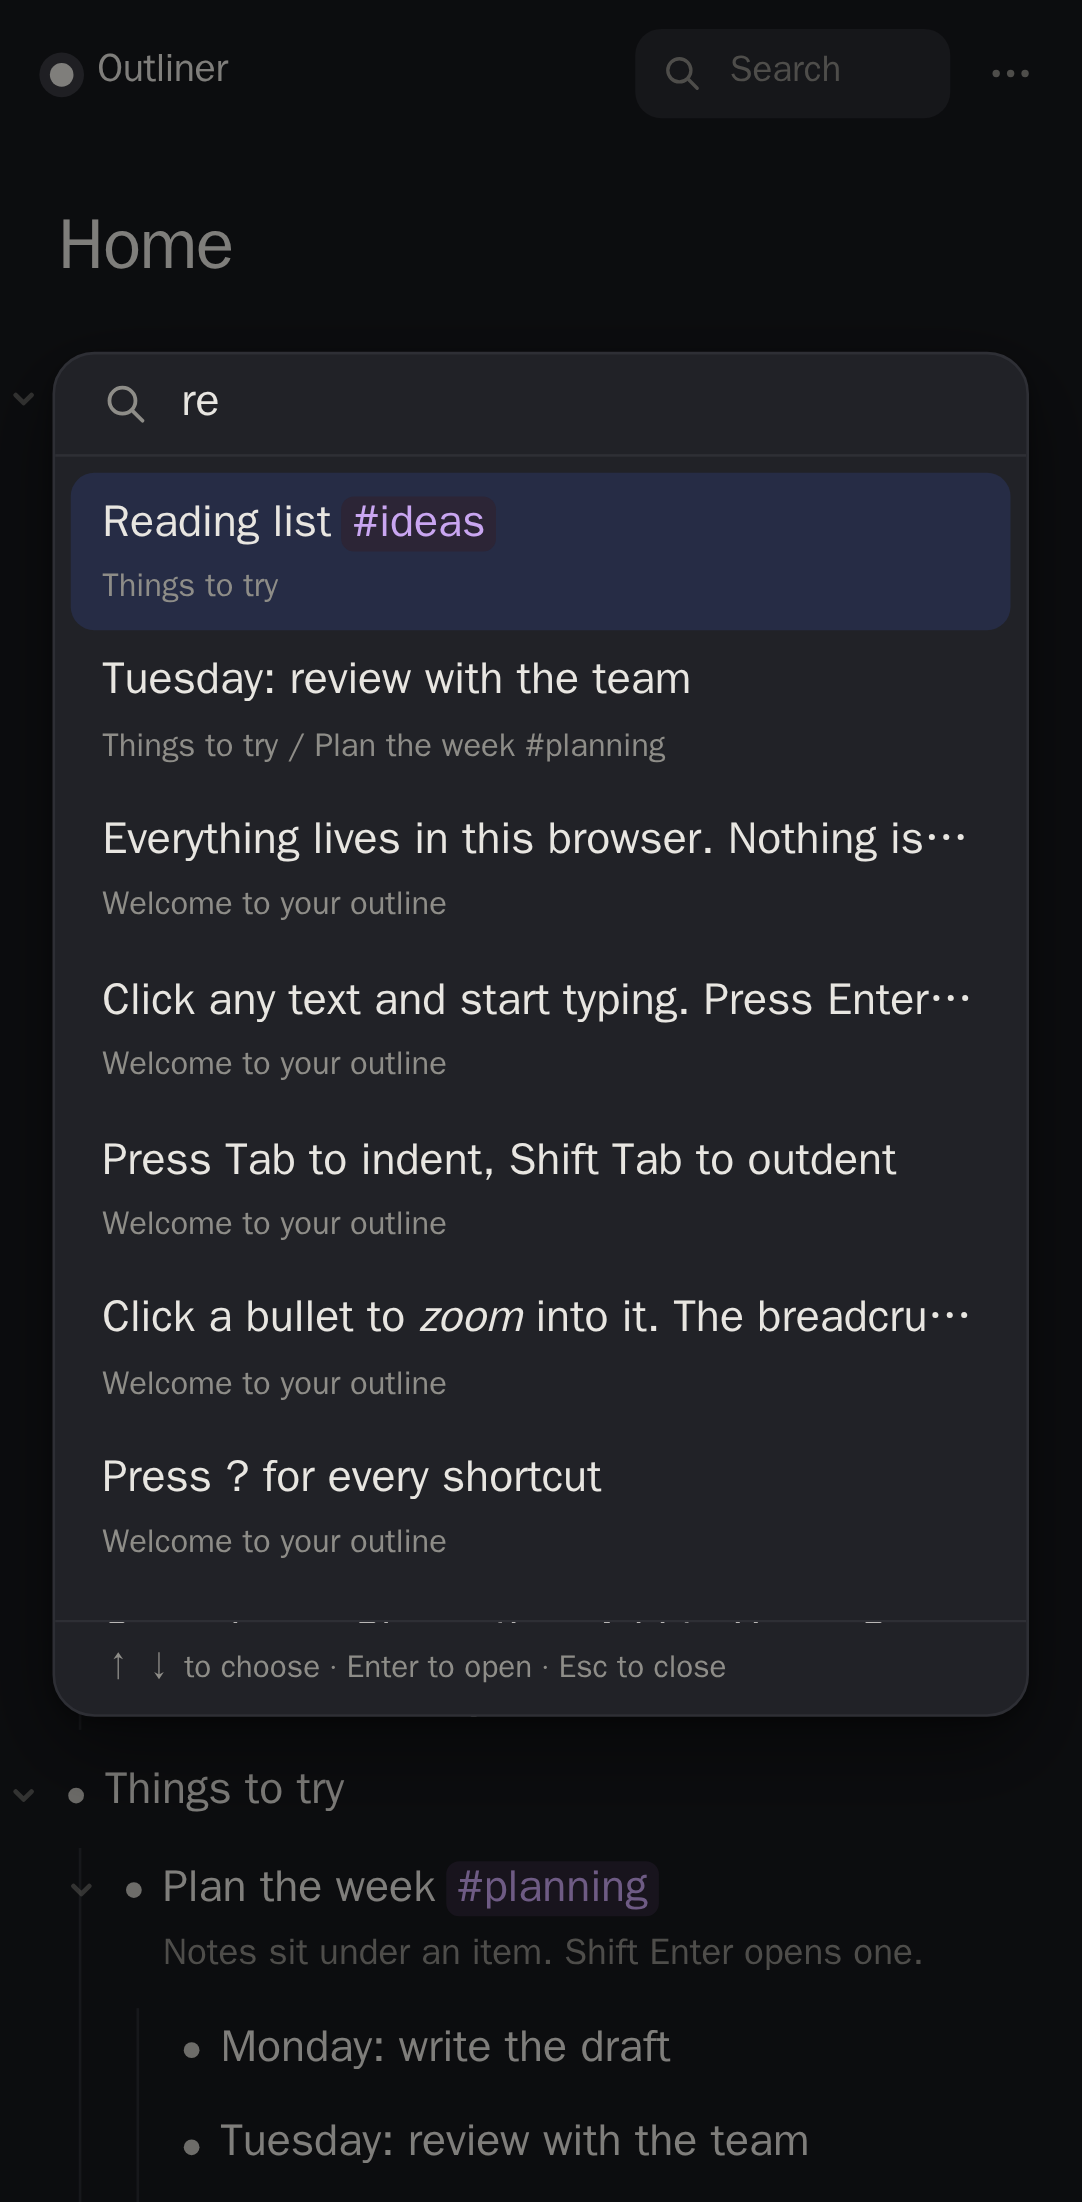
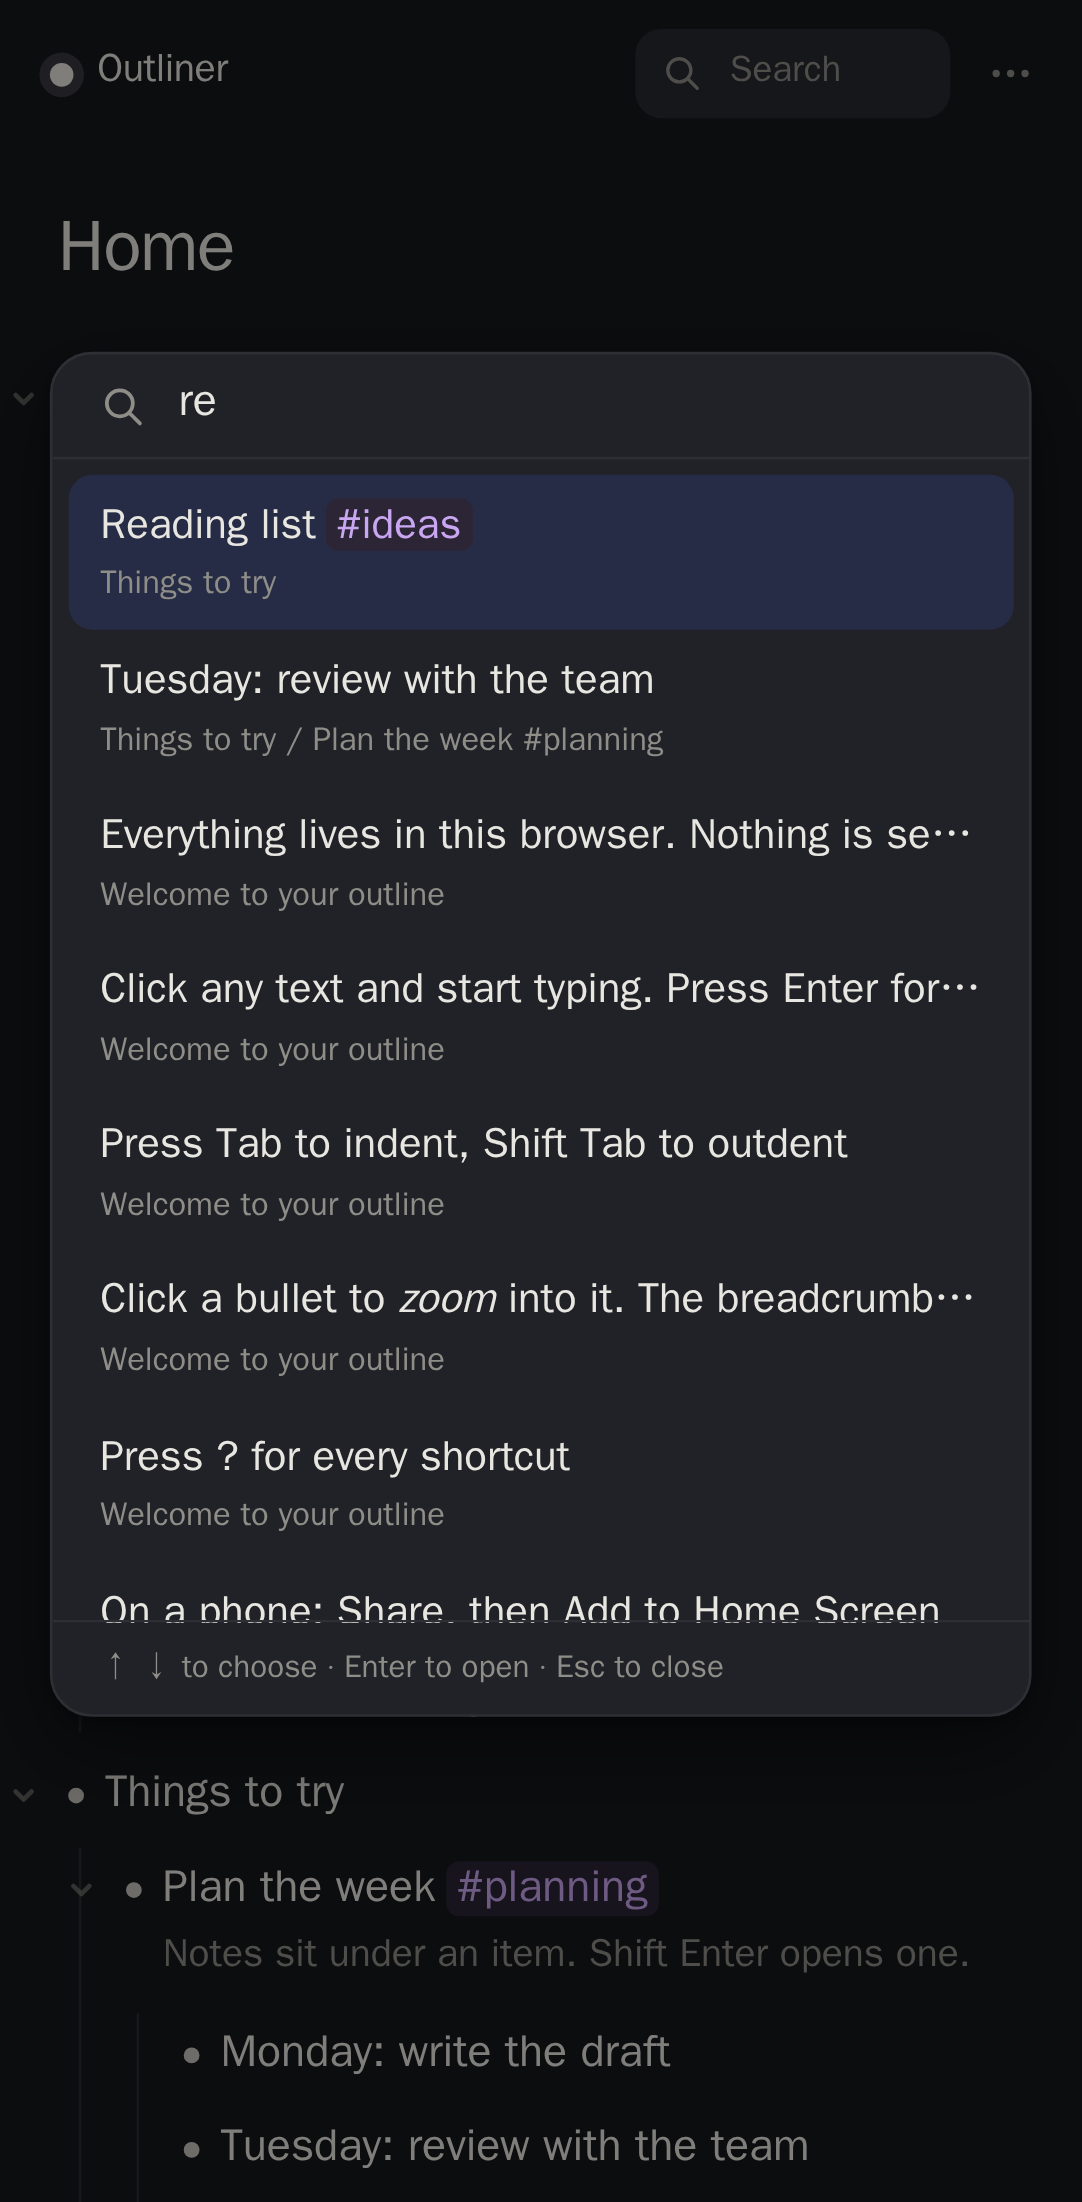
Add a text size setting next to the theme

diff --git a/src/app.ts b/src/app.ts
@@ -35,7 +35,7 @@ import {
   toggleCompleted,
 } from "./model";
 import { Caret, History } from "./store";
-import { Prefs, Theme, discardPendingSave, flushSave, loadDoc, loadPrefs, onDocChangedInAnotherTab, onSaveFailed, savePrefs, saveDocSoon } from "./storage";
+import { Prefs, discardPendingSave, flushSave, loadDoc, loadPrefs, onDocChangedInAnotherTab, onSaveFailed, savePrefs, saveDocSoon } from "./storage";
 import { Candidate, SearchResult, findItems, pathOf, search } from "./search";
 import { openPalette } from "./palette";
 import { escape, plainText, renderInline } from "./inline";
@@ -57,7 +57,6 @@ const ui = {
   search: $<HTMLInputElement>("search"),
   searchSummary: $("search-summary"),
   menu: $("menu"),
-  themeChoice: $("theme-choice"),
   completedSwitch: $("completed-switch"),
   importFile: $<HTMLInputElement>("import-file"),
   toolbar: $("toolbar"),
@@ -83,7 +82,7 @@ const filter = (): ViewFilter => ({ showCompleted: state.prefs.showCompleted });
 
 export function start(): void {
   state.zoom = zoomFromHash();
-  applyTheme();
+  applyAppearance();
   bindEditorEvents();
   bindChrome();
   bindGlobalKeys();
@@ -1092,11 +1091,12 @@ function bindChrome(): void {
     runMenuAction(button.dataset.action!);
   });
 
-  ui.themeChoice.addEventListener("click", (event) => {
-    const button = (event.target as HTMLElement).closest<HTMLElement>("[data-theme]");
+  ui.menu.addEventListener("click", (event) => {
+    const button = (event.target as HTMLElement).closest<HTMLElement>("[data-pref] [data-value]");
     if (!button) return;
-    updatePrefs({ theme: button.dataset.theme as Theme });
-    applyTheme();
+    const pref = button.closest<HTMLElement>("[data-pref]")!.dataset.pref as "theme" | "textSize";
+    updatePrefs({ [pref]: button.dataset.value });
+    applyAppearance();
   });
 
   ui.importFile.addEventListener("change", async () => {
@@ -1129,7 +1129,7 @@ function bindChrome(): void {
   $("build-info").textContent = `Stored only in this browser · build ${__BUILD_COMMIT__}`;
   document.querySelector(".menu-kbd")!.textContent = isMac ? "⌘K" : "Ctrl K";
 
-  window.matchMedia("(prefers-color-scheme: dark)").addEventListener("change", applyTheme);
+  window.matchMedia("(prefers-color-scheme: dark)").addEventListener("change", applyAppearance);
 }
 
 function runMenuAction(action: string): void {
@@ -1275,18 +1275,24 @@ function updatePrefs(change: Partial<Prefs>): void {
 }
 
 function renderMenuState(): void {
-  for (const button of ui.themeChoice.querySelectorAll<HTMLElement>("[data-theme]")) {
-    button.setAttribute("aria-checked", String(button.dataset.theme === state.prefs.theme));
+  for (const group of ui.menu.querySelectorAll<HTMLElement>("[data-pref]")) {
+    const current = state.prefs[group.dataset.pref as "theme" | "textSize"];
+    for (const button of group.querySelectorAll<HTMLElement>("[data-value]")) {
+      button.setAttribute("aria-checked", String(button.dataset.value === current));
+    }
   }
   ui.completedSwitch.classList.toggle("on", state.prefs.showCompleted);
 }
 
-function applyTheme(): void {
-  const theme = state.prefs.theme;
-  if (theme === "system") delete document.documentElement.dataset.theme;
-  else document.documentElement.dataset.theme = theme;
+function applyAppearance(): void {
+  const { theme, textSize } = state.prefs;
+  const root = document.documentElement;
+  if (theme === "system") delete root.dataset.theme;
+  else root.dataset.theme = theme;
+  if (textSize === "medium") delete root.dataset.size;
+  else root.dataset.size = textSize;
   const dark = theme === "dark" || (theme === "system" && matchMedia("(prefers-color-scheme: dark)").matches);
-  document.querySelector('meta[name="theme-color"]')!.setAttribute("content", dark ? "#18191d" : "#f7f5f0");
+  document.querySelector('meta[name="theme-color"]')!.setAttribute("content", dark ? "#17181c" : "#f7f5f0");
 }
 
 function bindGlobalKeys(): void {

diff --git a/index.html b/index.html
@@ -16,6 +16,7 @@
         try {
           const prefs = JSON.parse(localStorage.getItem("outliner-lab:prefs:v1") || "{}");
           if (prefs.theme === "light" || prefs.theme === "dark") document.documentElement.dataset.theme = prefs.theme;
+          if (prefs.textSize === "small" || prefs.textSize === "large") document.documentElement.dataset.size = prefs.textSize;
         } catch {}
       })();
     </script>
@@ -50,10 +51,16 @@
     <div class="menu" id="menu" popover>
       <div class="menu-section">
         <div class="menu-label">Theme</div>
-        <div class="segmented" id="theme-choice" role="radiogroup" aria-label="Theme">
-          <button type="button" data-theme="system" role="radio">Auto</button>
-          <button type="button" data-theme="light" role="radio">Light</button>
-          <button type="button" data-theme="dark" role="radio">Dark</button>
+        <div class="segmented" data-pref="theme" role="radiogroup" aria-label="Theme">
+          <button type="button" data-value="system" role="radio">Auto</button>
+          <button type="button" data-value="light" role="radio">Light</button>
+          <button type="button" data-value="dark" role="radio">Dark</button>
+        </div>
+        <div class="menu-label">Text size</div>
+        <div class="segmented" data-pref="textSize" role="radiogroup" aria-label="Text size">
+          <button type="button" data-value="small" role="radio" class="size-small">Aa</button>
+          <button type="button" data-value="medium" role="radio">Aa</button>
+          <button type="button" data-value="large" role="radio" class="size-large">Aa</button>
         </div>
       </div>
       <div class="menu-section">

diff --git a/src/style.css b/src/style.css
@@ -27,6 +27,16 @@
   --toggle: 20px;
   --bullet-col: 22px;
   --keyboard: 0px;
+  --text-base: 16px;
+  --text-scale: 1;
+}
+
+:root[data-size="small"] {
+  --text-scale: 0.9;
+}
+
+:root[data-size="large"] {
+  --text-scale: 1.15;
 }
 
 :root[data-theme="light"] {
@@ -264,6 +274,7 @@ kbd {
 /* ---- page ----------------------------------------------------------------- */
 
 .page {
+  font-size: calc(var(--text-base) * var(--text-scale));
   max-width: 760px;
   margin: 0 auto;
   padding: 36px max(28px, env(safe-area-inset-right)) 40vh max(28px, env(safe-area-inset-left));
@@ -277,7 +288,7 @@ kbd {
 
 .title {
   margin: 0;
-  font-size: 32px;
+  font-size: 2em;
   line-height: 1.25;
   font-weight: 680;
   letter-spacing: -0.022em;
@@ -478,7 +489,7 @@ kbd {
 }
 
 .note {
-  font-size: 14px;
+  font-size: 0.875em;
   line-height: 1.5;
   color: var(--muted);
   padding: 1px 0 3px;
@@ -492,7 +503,7 @@ kbd {
 }
 
 .title-note {
-  font-size: 15px;
+  font-size: 0.94em;
 }
 
 .md {
@@ -682,6 +693,14 @@ code {
   border-radius: 7px;
   color: var(--muted);
   font-size: 13px;
+}
+
+.segmented .size-small {
+  font-size: 11px;
+}
+
+.segmented .size-large {
+  font-size: 16px;
 }
 
 .segmented button[aria-checked="true"] {
@@ -1122,10 +1141,7 @@ body.dragging {
   :root {
     --toggle: 18px;
     --bullet-col: 22px;
-  }
-
-  body {
-    font-size: 17px;
+    --text-base: 17px;
   }
 
   .topbar {
@@ -1161,7 +1177,7 @@ body.dragging {
   }
 
   .title {
-    font-size: 27px;
+    font-size: 1.6em;
   }
 }
 

diff --git a/e2e/editing.spec.ts b/e2e/editing.spec.ts
@@ -316,6 +316,22 @@ test.describe("zoom and search", () => {
   });
 });
 
+test.describe("appearance", () => {
+  test("theme and text size are chosen in the menu and survive a reload", async ({ page }) => {
+    await freshOutline(page, "a");
+    const size = () => editor(page, "a").evaluate((element) => parseFloat(getComputedStyle(element).fontSize));
+    const normal = await size();
+    await page.locator("#menu-button").click();
+    await page.locator('[data-pref="textSize"] [data-value="large"]').click();
+    await page.locator('[data-pref="theme"] [data-value="dark"]').click();
+    expect(await size()).toBeGreaterThan(normal);
+    await page.reload();
+    await expect(page.locator("html")).toHaveAttribute("data-theme", "dark");
+    await expect(page.locator("html")).toHaveAttribute("data-size", "large");
+    expect(await size()).toBeGreaterThan(normal);
+  });
+});
+
 test.describe("item menu", () => {
   test("right-clicking a bullet offers actions on that item", async ({ page }) => {
     await freshOutline(page, "a\nb\n  b1\nc");

diff --git a/src/storage.ts b/src/storage.ts
@@ -7,10 +7,13 @@ export type Theme = "system" | "light" | "dark";
 
 export interface Prefs {
   theme: Theme;
+  textSize: TextSize;
   showCompleted: boolean;
 }
 
-const defaultPrefs: Prefs = { theme: "system", showCompleted: true };
+export type TextSize = "small" | "medium" | "large";
+
+const defaultPrefs: Prefs = { theme: "system", textSize: "medium", showCompleted: true };
 
 export function loadDoc(): Doc | null {
   const raw = localStorage.getItem(DOC_KEY);
